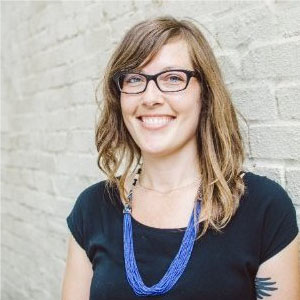
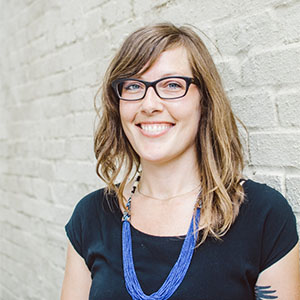
updates to jekyll process and speaker bio/pics

diff --git a/_layouts/post.html b/_layouts/post.html
@@ -1,12 +1,23 @@
 ---
 layout: default
 ---
+
+{% if page.author %}
+{% assign author = site.data.authors[page.author] %}
+{% endif %}
+
 <section class="page-section section">
 
   <div class="container">
     <header class="page-header">
       <h2 class="section-heading text-center post-title">{{ page.title }}</h2>
-      <p class="post-meta">{{ page.date | date: "%b %-d, %Y" }}{% if page.author %} • {{ page.author }}{% endif %}{% if page.meta %} • {{ page.meta }}{% endif %}</p>
+      <p class="post-meta">
+        <span>
+          {{ page.date | date: "%b %-d, %Y" }}
+          {% if page.author %} | <a href="{{ author.twitter }}" title="{{ author.name }}">{{ author.name }}</a> {% endif %}
+          {% if page.addthis == true %} | <div class="addthis_toolbox addthis_default_style" addthis:url="{{ page.url | prepend: site.baseurl }}" addthis:title="{{ page.title | xml_escape }}"> {% endif %}
+        </span>
+      </p>
     </header>
 
     <div class="post">

diff --git a/index.html b/index.html
@@ -341,7 +341,7 @@ layout: index
             </a>
             <div class="team-member-text">
               <h4 class="team-member-name">Heather Gregory</h4>
-              <div class="team-member-position">Organizer, Denton Mini Maker Faire</div>
+              <div class="team-member-position">President/Director, Denton Mini Maker Faire &amp; SCRAP Denton</div>
               <p class="team-member-description">A family-friendly showcase of invention, creativity and resourcefulness, and a celebration of the Maker Movement.</p>
             </div>
           </div>

diff --git a/blog.html b/blog.html
@@ -1,9 +1,13 @@
----
-layout: page
-title: Blog
-permalink: /blog/
-addthis: true
----
+<!DOCTYPE html>
+<html>
+<head>
+	<meta charset="utf-8"/>
+	<meta name="layout" content="page"/>
+	<title>Blog</title>
+	<meta name="permalink" content="/blog/"/>
+	<meta name="addthis" content="true"/>
+</head>
+<body>
 
 <div class="post-list">
   {% for post in site.posts %}
@@ -23,3 +27,6 @@ addthis: true
   </section>
   {% endfor %}
 </div>
+
+</body>
+</html>

diff --git a/_layouts/page.html b/_layouts/page.html
@@ -8,10 +8,11 @@ layout: default
       <h2 class="section-heading text-center page-title">{{ page.title }}</h2>
     </header>
 
+    {% if page.addthis == true %}
     <div id="addthis-sharing" class="section clearfix">
-      <!-- Go to www.addthis.com/dashboard to customize your tools -->
       <div class="addthis_sharing_toolbox"></div>
     </div>
+    {% endif %}
 
     <div class="row">
 
